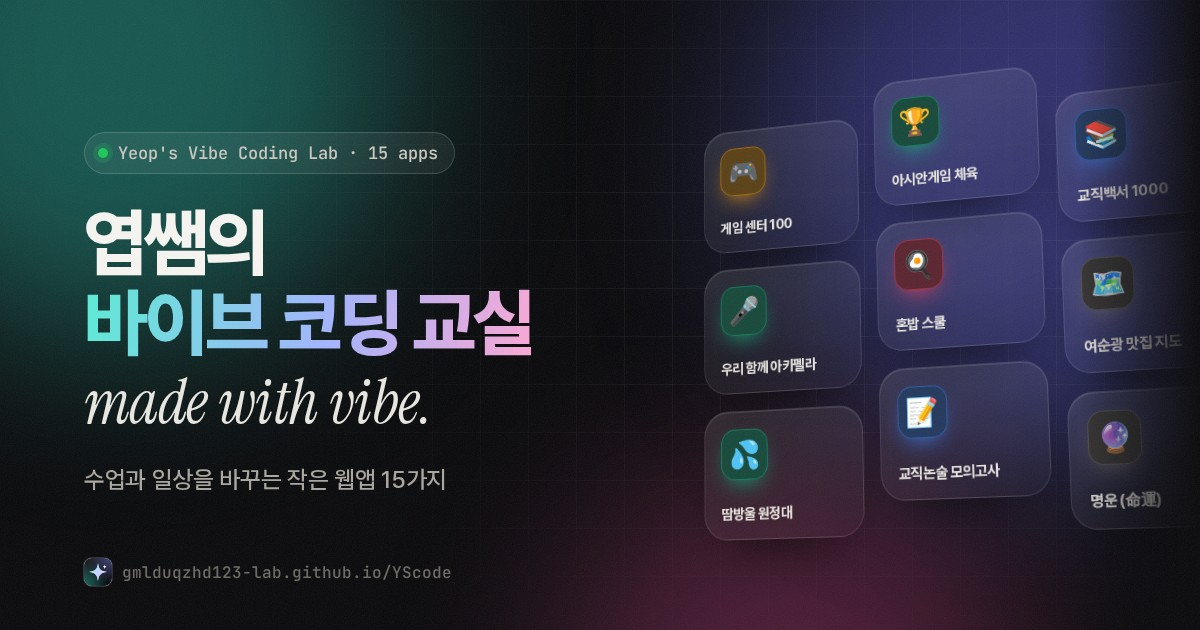
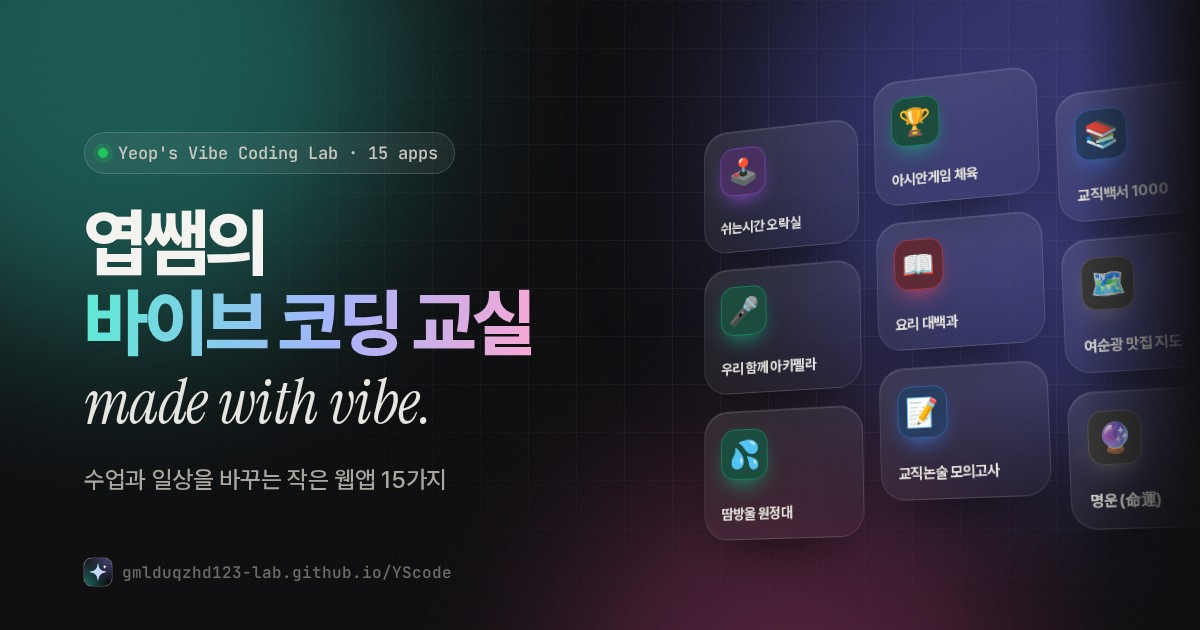
이름이 바뀐 앱 반영: 쉬는시간 오락실 100, 요리 대백과
- 카드 이름·설명·아이콘·색과 커버를 새 이름으로 갱신
- 허브 공유 이미지 속 타일 이름 갱신
- 바뀐 커버가 바로 보이도록 COVER_VERSION 20261002

Claude-Session: https://claude.ai/code/session_01NaW5r8WBzNy5B2e9iMgdZz

Changed region(s): [[0.5858, 0.2111, 0.6783, 0.3921], [0.74, 0.4825, 0.8017, 0.5429], [0.74, 0.3921, 0.8017, 0.4524]]

diff --git a/index.html b/index.html
@@ -524,9 +524,9 @@
           </div>
           <div class="showcase" aria-hidden="true">
             <div class="showcase-inner">
-              <div class="shot s1"><img src="covers/for-teacher.jpg?v=20260928" alt="" width="1200" height="630"></div>
-              <div class="shot s3"><img src="covers/destiny.jpg?v=20260928" alt="" width="1200" height="630"></div>
-              <div class="shot s2"><img src="covers/asian-game.jpg?v=20260928" alt="" width="1200" height="630"></div>
+              <div class="shot s1"><img src="covers/for-teacher.jpg?v=20261002" alt="" width="1200" height="630"></div>
+              <div class="shot s3"><img src="covers/destiny.jpg?v=20261002" alt="" width="1200" height="630"></div>
+              <div class="shot s2"><img src="covers/asian-game.jpg?v=20261002" alt="" width="1200" height="630"></div>
             </div>
           </div>
         </section>
@@ -689,10 +689,10 @@
                 id: 'old-game',
                 featured: true,
                 cover: 'covers/old-game.jpg',
-                accent: '#f59e0b',
-                name: '엽쌤스쿨 게임 센터 100',
+                accent: '#a855f7',
+                name: '엽쌤스쿨 쉬는시간 오락실 100',
                 category: '여가용',
-                icon: '🎮',
+                icon: '🕹',
                 desc: '쉬는 시간에 즐기는 추억의 미니게임 100종 모음',
                 url: 'https://gmlduqzhd123-lab.github.io/old-game/'
             },
@@ -700,10 +700,10 @@
                 id: 'cooking',
                 cover: 'covers/cooking.jpg',
                 accent: '#fb7185',
-                name: '엽쌤의 혼밥 스쿨',
+                name: '요리 대백과',
                 category: '여가용',
-                icon: '🍳',
-                desc: '자취생·혼밥러를 위한 초간단 레시피 100선. 재료, 조리 순서, 유튜브 영상까지 한 번에',
+                icon: '📖',
+                desc: '실과 교과 요리부터 자취·혼밥 레시피까지 215선. 재료 검색, 단계별 요리 모드, 유튜브 영상까지 한 번에',
                 url: 'https://gmlduqzhd123-lab.github.io/cooking-/'
             },
             {
@@ -842,7 +842,7 @@
 
         // 관리자 모드에서 추가한 앱 (이 브라우저에만 저장)
         // 커버 이미지를 바꾸면 이 숫자를 올려 주세요. 주소가 바뀌어 휴대폰에 저장된 옛 이미지 대신 새 이미지를 받아요.
-        const COVER_VERSION = '20260928';
+        const COVER_VERSION = '20261002';
 
         const STORAGE_KEY = 'YEOP_VIBE_MY_APPS';
         let myApps = [];
